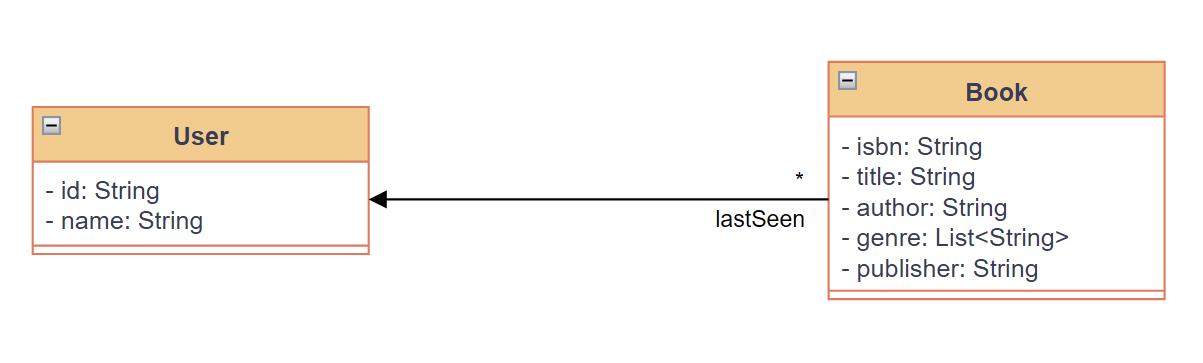
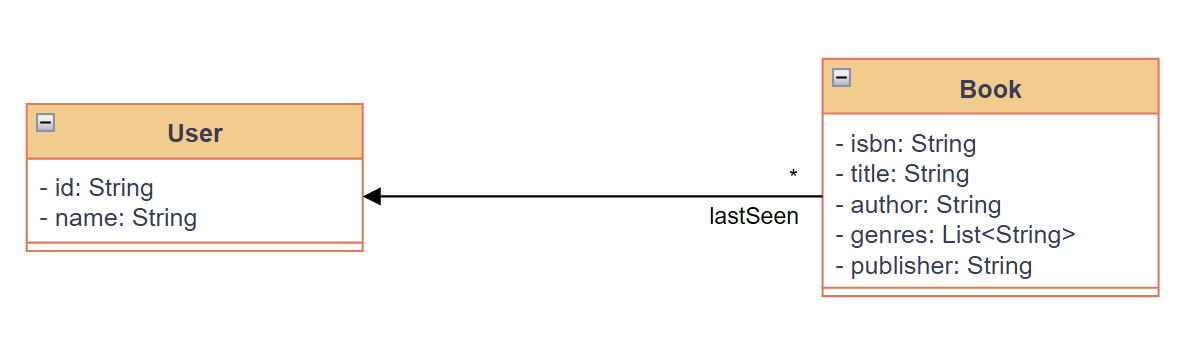
small changes to report

Changed region(s): [[0.3043, 0.1739, 1.0, 0.8696], [0.0, 0.2899, 0.3043, 0.7536], [0.7912, 0.2319, 0.8825, 0.2899]]

diff --git a/Relatório.md b/Relatório.md
@@ -47,13 +47,13 @@ Resposta de sucesso: 200
 
 Contrato:
 
-```code
+```json
 [
   {
     "isbn": "string",
     "title": "string",
     "author": "string",
-    "genre": [
+    "genres": [
       "string"
     ],
     "publisher": "string"
@@ -74,12 +74,12 @@ Caso seja fornecido o ID de um usuário no header e o usuário existir, o livro 
 
 Resposta de sucesso: 200
 
-```code
+```json
 {
   "isbn": "string",
   "title": "string",
   "author": "string",
-  "genre": [
+  "genres": [
     "string"
   ],
   "publisher": "string"
@@ -88,11 +88,11 @@ Resposta de sucesso: 200
 
 Resposta em caso de livro não encontrado: 404
 
-```code
+```json
 {
   "timestamp": 1726869619976,
   "status": 404,
-  "error": "Objeto não encontrado",
+  "error": "Object not found",
   "message": "No book found with given id",
   "path": "/books/{user}"
 }
@@ -100,11 +100,11 @@ Resposta em caso de livro não encontrado: 404
 
 Resposta em caso de livro encontrado, mas usuário não encontrado: 404
 
-```code
+```json
 {
   "timestamp": 1726869619976,
   "status": 404,
-  "error": "Objeto não encontrado",
+  "error": "Object not found",
   "message": "No user found with given id",
   "path": "/books/{id}"
 }
@@ -123,13 +123,13 @@ Resposta em caso de livro encontrado, mas usuário não encontrado: 404
 
 Resposta de sucesso: 200
 
-```code
+```json
 [
   {
     "isbn": "string",
     "title": "string",
     "author": "string",
-    "genre": [
+    "genres": [
       "string"
     ],
     "publisher": "string"
@@ -139,7 +139,7 @@ Resposta de sucesso: 200
 
 Resposta de nenhum encontrado: 200
 
-```code
+```json
 []
 ```
 
@@ -157,13 +157,13 @@ Não diferencia maiúsculas de minúsculas.
 
 Resposta de sucesso: 200
 
-```code
+```json
 [
   {
     "isbn": "string",
     "title": "string",
     "author": "string",
-    "genre": [
+    "genres": [
       "string"
     ],
     "publisher": "string"
@@ -173,7 +173,7 @@ Resposta de sucesso: 200
 
 Resposta de nenhum encontrado: 200
 
-```code
+```json
 []
 ```
 
@@ -188,7 +188,7 @@ Resposta de nenhum encontrado: 200
 
 Resposta de sucesso: 200
 
-```code
+```json
 {
   "id": "string",
   "name": "string",
@@ -197,7 +197,7 @@ Resposta de sucesso: 200
       "isbn": "string",
       "title": "string",
       "author": "string",
-      "genre": [
+      "genres": [
         "string"
       ],
       "publisher": "string"
@@ -208,13 +208,51 @@ Resposta de sucesso: 200
 
 Resposta em caso de usuário não encontrado: 404
 
-```code
+```json
 {
   "timestamp": 1726869619976,
   "status": 404,
-  "error": "Objeto não encontrado",
+  "error": "Object not found",
   "message": "No user found with given id",
   "path": "/users/{id}"
+}
+```
+
+#### Casos de erro
+
+Resposta de erro genérica: 500
+
+```json
+{
+  "timestamp": 1726869619976,
+  "status": 500,
+  "error": "Unexpected error",
+  "message": "An internal error occurred",
+  "path": "/books"
+}
+```
+
+Resposta de erro de validação: 400
+
+```json
+{
+  "timestamp": 1726869619976,
+  "status": 400,
+  "error": "Method argument type mismatch",
+  "message": "Failed to convert value of type 'java.lang.String' to required type 'int'; For input string: 10000a",
+  "path": "/books"
+}
+```
+
+Resposta de rota não encontrada: 404
+
+```json
+{
+  "timestamp": 1726869619976,
+  "status": 404,
+  "error": "Resource not found",
+  "message": "No static resource user.",
+  "path": "/user"
 }
 ```
 
